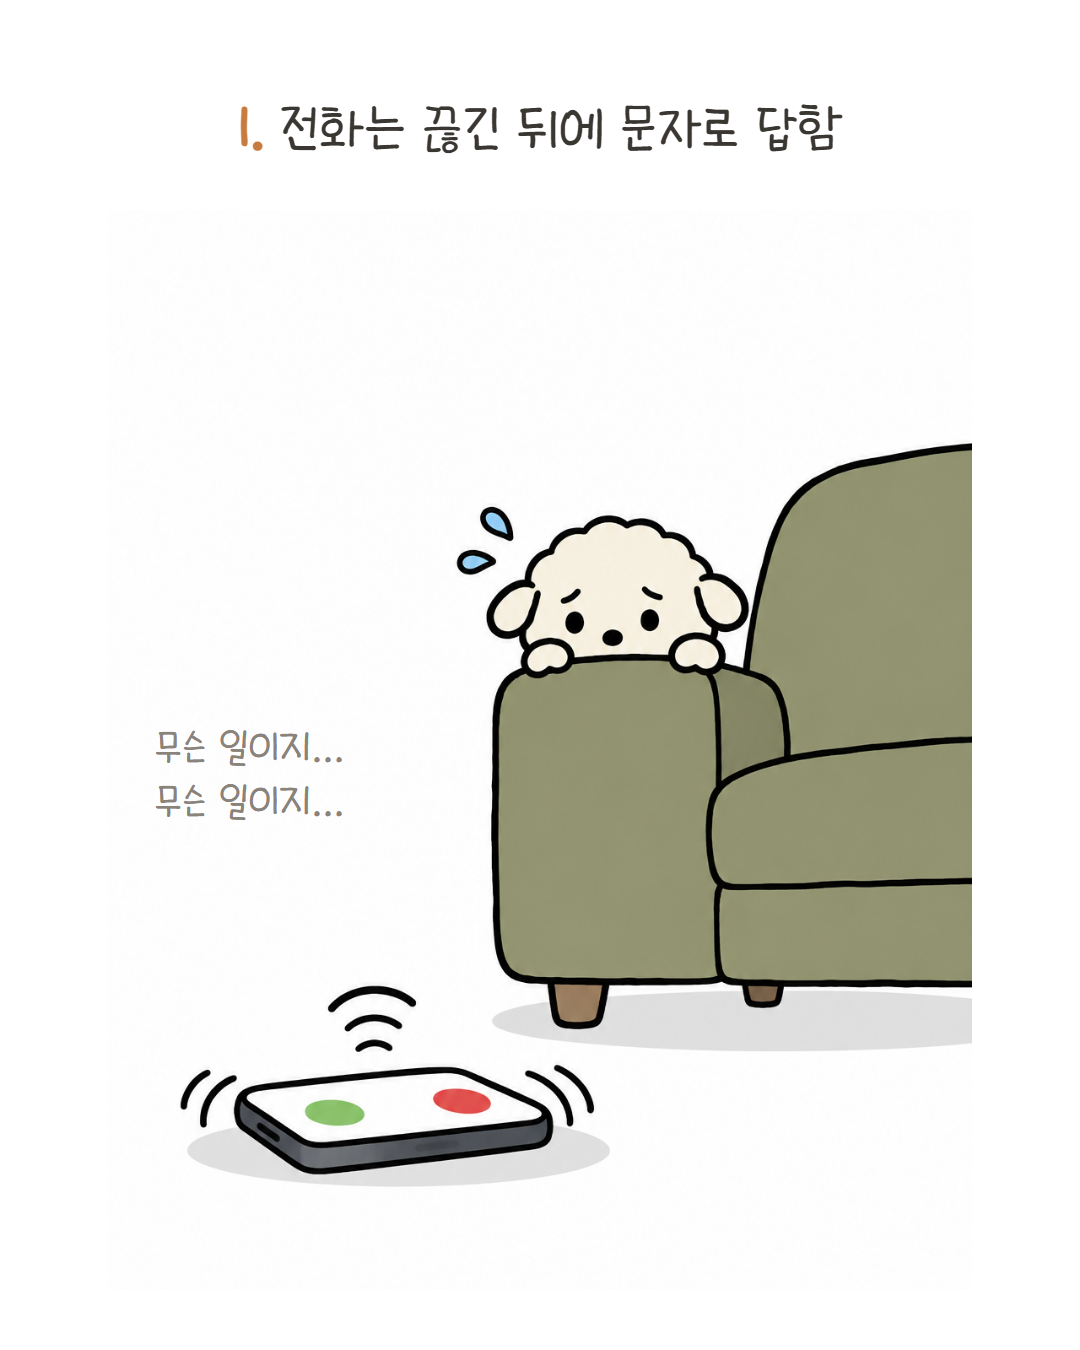
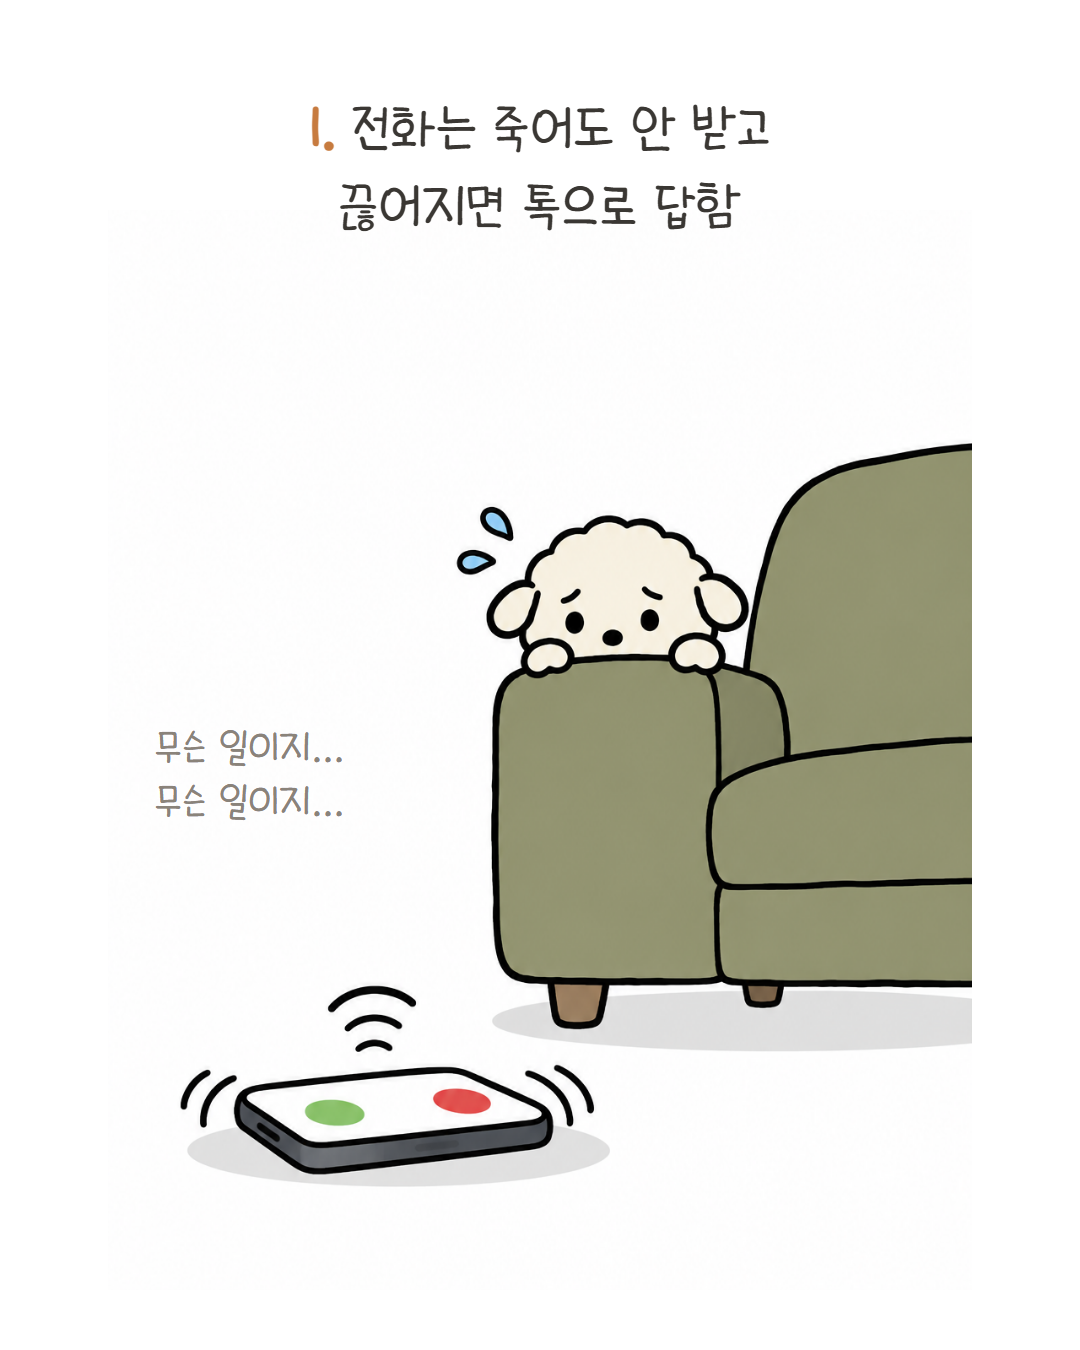
EP.08 특징 문장 5개를 구체적·맛깔나게 교체(두 줄), 스킬 특징 문장 규칙 갱신

Changed region(s): [[0.2139, 0.0622, 0.7944, 0.1867]]

diff --git a/episodes/ep08/compose.html b/episodes/ep08/compose.html
@@ -32,34 +32,39 @@
 
 <section id="s1">
   <img class="art" src="img/cut1.png" alt="">
-  <div class="feat"><b>1.</b>전화는 끊긴 뒤에 문자로 답함</div>
+  <div class="feat"><b>1.</b>전화는 죽어도 안 받고
+끊어지면 톡으로 답함</div>
   <div class="mind" style="left:40px;top:720px;width:420px;text-align:center">무슨 일이지…
 무슨 일이지…</div>
 </section>
 
 <section id="s2">
   <img class="art" src="img/cut2.png" alt="">
-  <div class="feat"><b>2.</b>배달 기사 발소리 사라진 뒤 문 엶</div>
+  <div class="feat"><b>2.</b>배달 기사님 엘리베이터 타실 때까지
+숨어서 훔쳐 봄</div>
   <div class="mind" style="left:800px;top:700px;width:260px;text-align:center">갔나…</div>
 </section>
 
 <section id="s3">
   <img class="art" src="img/cut3.png" alt="">
-  <div class="feat"><b>3.</b>점원이 다가오면 옷걸이 사이로 사라짐</div>
+  <div class="feat"><b>3.</b>옷 고를 때 말 걸면
+옷 사이로 숨음</div>
   <div class="mind" style="left:620px;top:600px;width:440px;text-align:center">찾으시는 거 있으세요?</div>
   <div class="mind" style="left:100px;top:470px;width:400px;text-align:center">없어요 없어요</div>
 </section>
 
 <section id="s4">
   <img class="art" src="img/cut4.png" alt="">
-  <div class="feat"><b>4.</b>인사했는데 같은 방향이면 숨음</div>
+  <div class="feat"><b>4.</b>집 방향 같은데 다른 척하고
+갈 때까지 기다림</div>
   <div class="mind" style="left:760px;top:520px;width:300px;text-align:center">두부야, 낼 봐~</div>
   <div class="mind" style="left:620px;top:930px;width:400px;text-align:center">먼저 가 제발</div>
 </section>
 
 <section id="s5">
   <img class="art" src="img/cut5.png" alt="">
-  <div class="feat"><b>5.</b>집 오면 현관에서 바로 방전됨</div>
+  <div class="feat"><b>5.</b>약속 끝나고 집에 오면
+현관에서 쓰러짐</div>
   <div class="mind" style="left:700px;top:590px;width:300px;text-align:center">누나 밥은?</div>
   <div class="mind" style="left:280px;top:600px;width:400px;text-align:center">충전 끝나면</div>
   <div class="cta"><span class="hh">♥</span> 당신 곁의 두부를 태그해 주세요 <span class="hh">♥</span></div>

diff --git a/episodes/ep08/preview.html b/episodes/ep08/preview.html
@@ -28,11 +28,11 @@
   <h1>캡션</h1>
   <pre>집에서만 충전되는 초능력자 특징, 몇 개나 해당되나요?
 
-1. 전화는 끊긴 뒤에 문자로 답함
-2. 배달 기사 발소리 사라진 뒤 문 엶
-3. 점원이 다가오면 옷걸이 사이로 사라짐
-4. 인사했는데 같은 방향이면 숨음
-5. 집 오면 현관에서 바로 방전됨
+1. 전화는 죽어도 안 받고 끊어지면 톡으로 답함
+2. 배달 기사님 엘리베이터 타실 때까지 숨어서 훔쳐 봄
+3. 옷 고를 때 말 걸면 옷 사이로 숨음
+4. 집 방향 같은데 다른 척하고 갈 때까지 기다림
+5. 약속 끝나고 집에 오면 현관에서 쓰러짐
 
 당신 곁의 두부를 태그해 주세요
 

diff --git a/episodes/ep08/conti.md b/episodes/ep08/conti.md
@@ -5,10 +5,10 @@
 | 컷 | 장면 | 특징 | 대사 | 프롬프트 요점 |
 |---|---|---|---|---|
 | 표지 | 배터리 배낭을 멘 두부가 집 바닥에서 쿠션에 기대 앉아 눈을 감고 행복, 배낭 케이블을 벽 콘센트에 꽂아 충전 중, 옆 폰도 같은 콘센트에서 충전 중, 반짝이 셋 | 제목. "집에서만"·"충전" 포인트 컬러 볼드 | 없음 | 구도: 정면 약간 측면 · 감정: 반짝이 |
-| 1 | 거실 바닥에 휴대폰이 진동선·벨소리 호를 뿜으며 울림. 두부는 소파 팔걸이 뒤에 숨어 눈·눈썹·귀만 내놓고 팔걸이를 붙잡음, 땀방울 둘 | 1. 전화는 끊긴 뒤에 문자로 답함 | 두부(속): 무슨 일이지… 무슨 일이지… | 구도: 바닥 낮은 앵글 측면, 휴대폰 전경 · 감정: 땀방울 |
-| 2 | 현관 안쪽. 두부가 뒷모습으로 까치발을 들고 문에 딱 붙어 외시경에 눈을 댐, 두 손은 문에, 귀는 쫑긋, 등의 배터리 배낭과 플러그가 뒤로 늘어짐. 신발 흩어짐 | 2. 배달 기사 발소리 사라진 뒤 문 엶 | 두부(속): 갔나… | 구도: 뒤에서 어깨 너머 · 감정: 땀방울 |
-| 3 | 옷가게. 왼쪽 옷걸이 랙에 빽빽한 옷 사이로 두부의 귀·눈썹·눈만 남고 몸이 뒤로 빨려 들어감(모션선). 오른쪽에서 앞치마 입은 물범 점원이 지느러미를 들고 다가옴, 반짝이 | 3. 점원이 다가오면 옷걸이 사이로 사라짐 | 점원: 찾으시는 거 있으세요? / 두부(속): 없어요 없어요 | 구도: 정면 · 감정: 반짝이(점원) · 밈: 심슨 덤불 후진 |
-| 4 | 인도를 위에서 내려다봄. 탱자가 손 흔들며 앞쪽으로 걸어가고, 전경의 두부는 가로등 기둥을 두 팔로 껴안고 몸을 숨긴 채 고개만 내밀어 탱자를 봄, 기둥 뒤로 배터리 배낭과 플러그가 삐져나옴, 땀방울 | 4. 인사했는데 같은 방향이면 숨음 | 탱자: 두부야, 낼 봐~ / 두부(속): 먼저 가 제발 | 구도: 하이앵글 · 감정: 땀방울 |
-| 5 | 현관 안쪽 바닥. 두부가 문 앞에 대자로 엎어져 눈은 대시, 귀도 바닥에 늘어짐. 배터리 배낭 케이블이 벽 콘센트에 꽂혀 쓰러진 채 충전 중, 반짝이 셋. 신발·가방은 내팽개침. 오른쪽에서 콩이 빈 그릇과 숟가락을 든 채 내려다봄 | 5. 집 오면 현관에서 바로 방전됨 | 콩: 누나 밥은? / 두부: 충전 끝나면 | 구도: 바닥 측면 · 감정: 대시 눈·반짝이 |
+| 1 | 거실 바닥에 휴대폰이 진동선·벨소리 호를 뿜으며 울림. 두부는 소파 팔걸이 뒤에 숨어 눈·눈썹·귀만 내놓고 팔걸이를 붙잡음, 땀방울 둘 | 1. 전화는 죽어도 안 받고 끊어지면 톡으로 답함 | 두부(속): 무슨 일이지… 무슨 일이지… | 구도: 바닥 낮은 앵글 측면, 휴대폰 전경 · 감정: 땀방울 |
+| 2 | 현관 안쪽. 두부가 뒷모습으로 까치발을 들고 문에 딱 붙어 외시경에 눈을 댐, 두 손은 문에, 귀는 쫑긋, 등의 배터리 배낭과 플러그가 뒤로 늘어짐. 신발 흩어짐 | 2. 배달 기사님 엘리베이터 타실 때까지 숨어서 훔쳐 봄 | 두부(속): 갔나… | 구도: 뒤에서 어깨 너머 · 감정: 땀방울 |
+| 3 | 옷가게. 왼쪽 옷걸이 랙에 빽빽한 옷 사이로 두부의 귀·눈썹·눈만 남고 몸이 뒤로 빨려 들어감(모션선). 오른쪽에서 앞치마 입은 물범 점원이 지느러미를 들고 다가옴, 반짝이 | 3. 옷 고를 때 말 걸면 옷 사이로 숨음 | 점원: 찾으시는 거 있으세요? / 두부(속): 없어요 없어요 | 구도: 정면 · 감정: 반짝이(점원) · 밈: 심슨 덤불 후진 |
+| 4 | 인도를 위에서 내려다봄. 탱자가 손 흔들며 앞쪽으로 걸어가고, 전경의 두부는 가로등 기둥을 두 팔로 껴안고 몸을 숨긴 채 고개만 내밀어 탱자를 봄, 기둥 뒤로 배터리 배낭과 플러그가 삐져나옴, 땀방울 | 4. 집 방향 같은데 다른 척하고 갈 때까지 기다림 | 탱자: 두부야, 낼 봐~ / 두부(속): 먼저 가 제발 | 구도: 하이앵글 · 감정: 땀방울 |
+| 5 | 현관 안쪽 바닥. 두부가 문 앞에 대자로 엎어져 눈은 대시, 귀도 바닥에 늘어짐. 배터리 배낭 케이블이 벽 콘센트에 꽂혀 쓰러진 채 충전 중, 반짝이 셋. 신발·가방은 내팽개침. 오른쪽에서 콩이 빈 그릇과 숟가락을 든 채 내려다봄 | 5. 약속 끝나고 집에 오면 현관에서 쓰러짐 | 콩: 누나 밥은? / 두부: 충전 끝나면 | 구도: 바닥 측면 · 감정: 대시 눈·반짝이 |
 
 CTA(슬라이드 6 하단): 당신 곁의 두부를 태그해 주세요

diff --git a/.claude/skills/make-episode/SKILL.md b/.claude/skills/make-episode/SKILL.md
@@ -11,7 +11,7 @@ description: 「작은 힘에도 작은 책임은 따른다」 에피소드 1편
 
 - **구성 = 표지 1 + 특징 컷 5 = 6장.** 표지: 제목(초능력 이름) + **제목의 초능력을 한 장으로 과장한 코믹 그림** — 그림만 봐도 제목이 읽히고 공감이 가야 한다. 특징 컷: 번호 + 특징 한 줄 + 그 특징을 한 단계 과장한 그림 1장. 컷끼리 서사로 잇지 않고 나열한다. 순서는 가장 보편적으로 찔리는 것부터, 설명이 필요한 것은 뒤로.
 - **제목** = 그 유형의 통용되는 단점을 능력처럼 바꾼 후킹 카피. 형식 `[…] 초능력자 특징`. 예: 「No를 Yes로 바꿔 말하는 초능력자 특징」. 핵심 구절만 포인트 컬러 볼드.
-- **특징 문장**은 짧은 음슴체 한 줄 (`보험 100개 있음`, `스팸 전화 못 끊음`). 캐릭터 이름 금지(할머니·동생·친구 등 관계어), 느낌표·이모지 금지. MBTI는 작품 어디에도 쓰지 않는다.
+- **특징 문장**은 음슴체로, 상황과 행동을 구체적이고 맛깔나게 (`전화는 죽어도 안 받고 끊어지면 톡으로 답함`, `배달 기사님 엘리베이터 타실 때까지 숨어서 훔쳐 봄`). 유형 이름 같은 추상 문구(`오프라인 쇼핑 공포증 있음`) 금지. 슬라이드에서 두 줄까지 허용. 캐릭터 이름 금지(할머니·동생·친구 등 관계어), 느낌표·이모지 금지. MBTI는 작품 어디에도 쓰지 않는다.
 - **그림이 펀치다.** 특징 문장을 가리고 그림만 봐서 웃기지 않으면 삽화다 — 과장 장치를 넣거나 특징을 바꾼다. 조연은 그 특징이 드러나는 상황을 공급한다(콩 = 눈치 없는 한마디, 탱자 = 오지랖, 할머니 = 거절 못 하는 호의).
 - **대사·속마음**은 캐릭터 옆에 짧게 (`중요한 전화야?`, `재밌어요`). 특징 문장과 같은 정보를 반복하지 않는다.
 - **콘티 보고.** 채팅에 컷별 [장면 / 특징 / 대사] 세 열을 모두 담은 표로 보고한다 — 열 생략 금지. 표 승인 후 생성.
